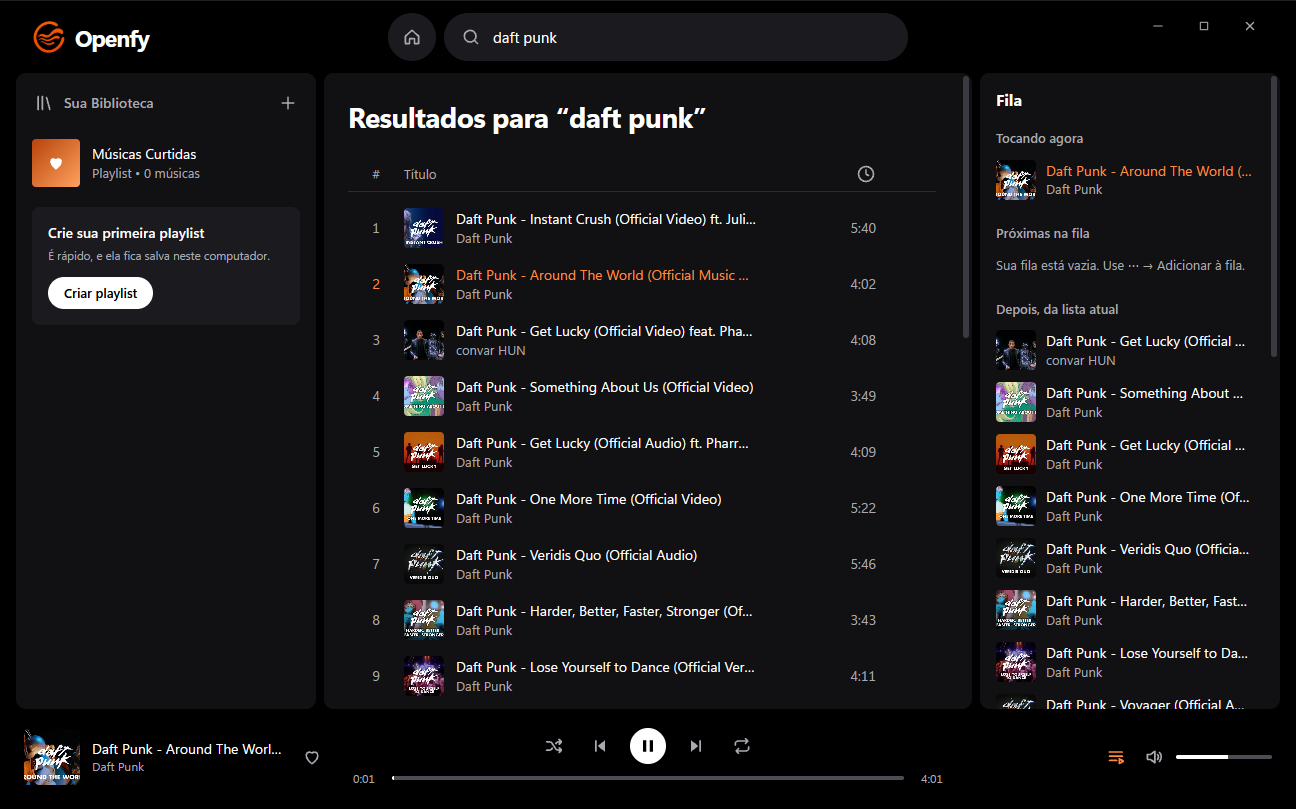
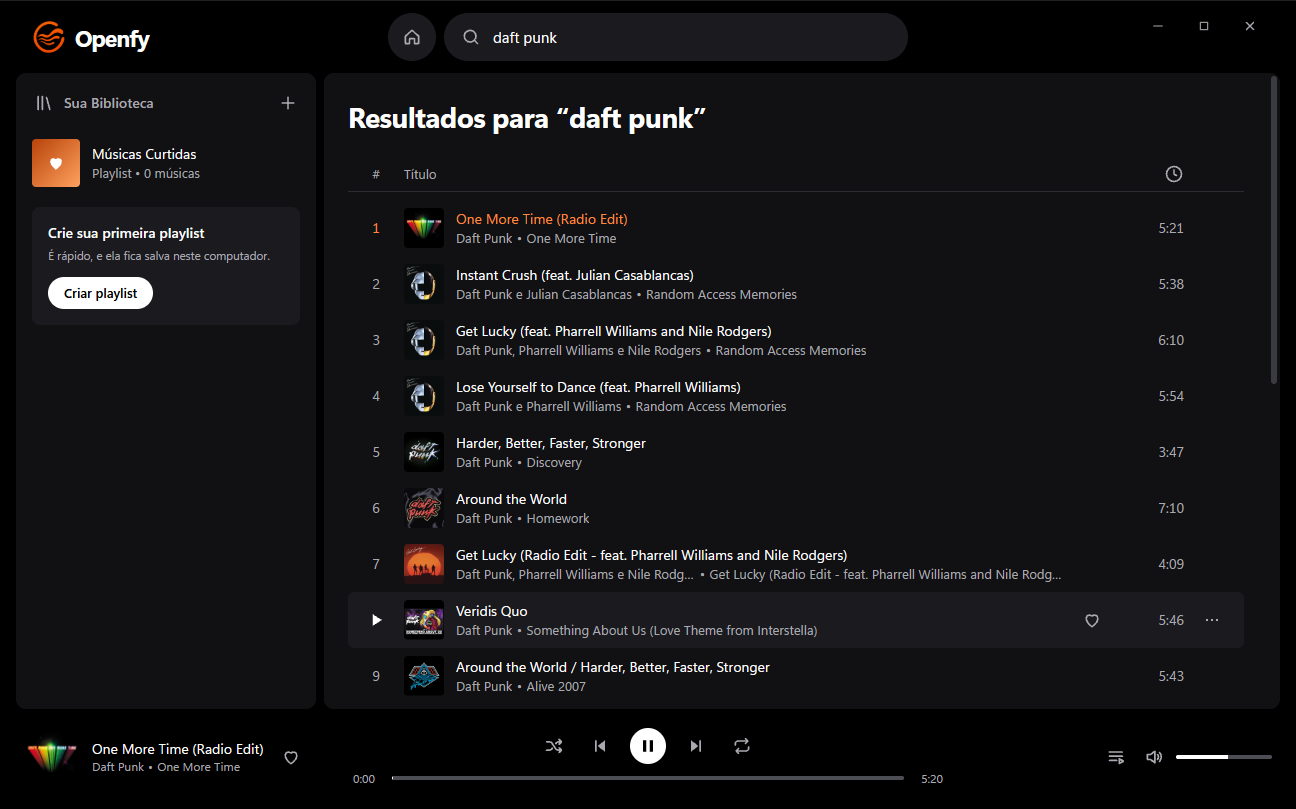
docs: capturas de tela atualizadas no README
A captura da busca passa a mostrar artista e álbum em cada faixa, e o
README ganha as capturas das páginas de álbum e de artista. Todas vêm
do autoteste rodando o código atual.

diff --git a/README.md b/README.md
@@ -14,7 +14,9 @@ Busca, páginas de álbum e artista, fila, rádio automática e biblioteca local
 
 [Baixar](https://github.com/LucianoBarral/openfy/releases/latest) · [Reportar um bug](https://github.com/LucianoBarral/openfy/issues/new/choose) · [Contribuir](CONTRIBUTING.md) · [English](#english)
 
-<img src="docs/screenshot.png" width="860" alt="Janela do Openfy com resultados de busca e uma faixa tocando">
+<img src="docs/screenshot.png" width="860" alt="Janela do Openfy com resultados de busca, cada faixa com artista e álbum, e uma faixa tocando">
+
+<img src="docs/screenshot-album.png" width="426" alt="Página de álbum no Openfy, com capa, ano e lista de faixas"> <img src="docs/screenshot-artist.png" width="426" alt="Página de artista no Openfy, com as músicas populares">
 
 </div>
 
